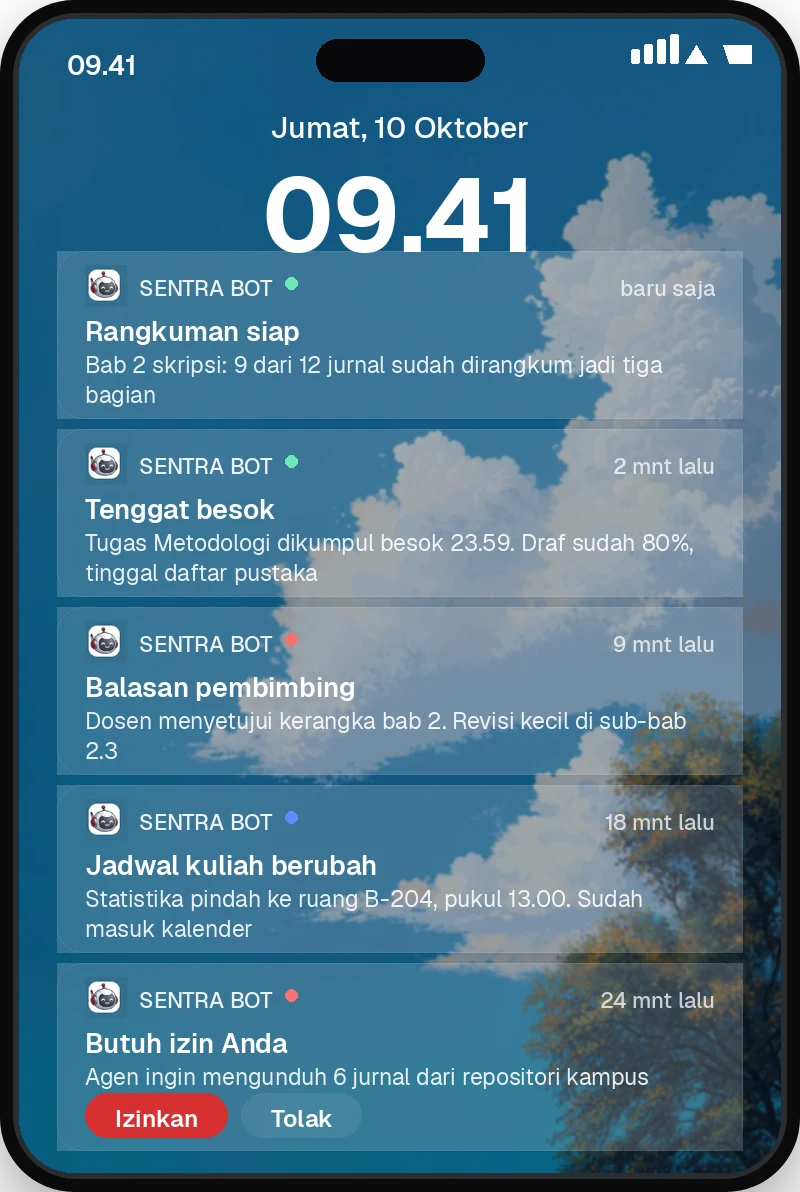
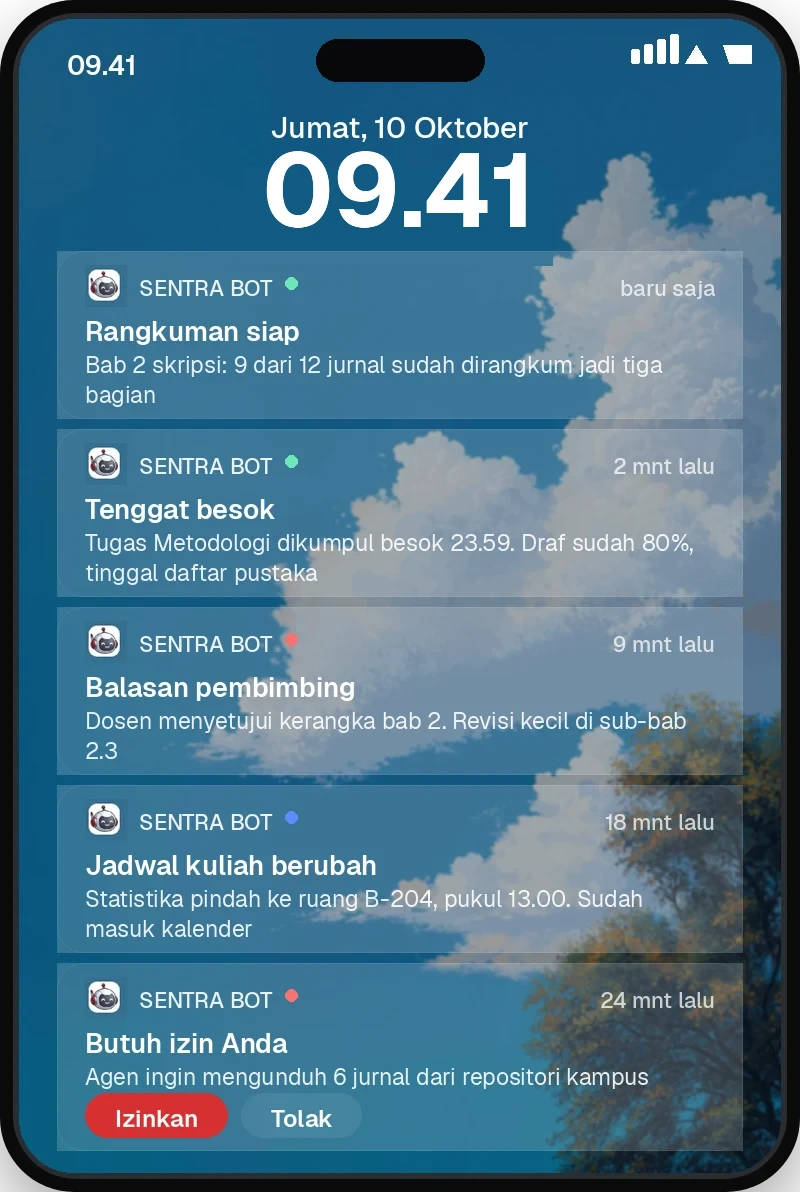
fix(sentrabot-site): unclip the lock-screen clock, rewrite the FAQ
- The lock-screen art had its 09.41 sliced by the first notification card.
  The wallpaper behind it is flat, so the glyphs were keyed out per row,
  the old position repainted with each row's own background, and the clock
  recomposited centred in the gap above the card.
- FAQ replaced with the questions Indonesian visitors actually ask (vs
  ChatGPT, not tech-savvy, everyday Indonesian, WhatsApp, permission,
  data safety, warung use, price and free plan, quota top-up, BYOK,
  cancelling) in a warmer voice; answers stay inside existing claims.
- Accordion buttons now carry aria-expanded.

Changed region(s): [[0.3125, 0.1242, 0.6875, 0.2173]]

diff --git a/projects/product/sentrabot/apps/site/src/html/Faq.html b/projects/product/sentrabot/apps/site/src/html/Faq.html
@@ -1,1 +1,1 @@
-<section class="relative dr-w-357 dt:dr-w-792 dr-mt-108 dr-mb-44 dt:dr-mb-108 mx-auto"><h3 class="h5 dr-mb-15 dt:dr-mb-35 text-center">Pertanyaan yang sering diajukan</h3><div class="accordion-module__tWMLDa__accordion"><div class="faq-module__O8tnPq__faq__item relative dr-mt-10 dr-rounded-10 dt:dr-rounded-8 overflow-hidden"><button class="dr-py-14 dr-px-16 relative flex items-center justify-between w-full"><h4 class="dr-w-271 dt:w-full h6">Sebentar, apakah agen benar-benar menjalankan perintah tanpa saya?</h4><svg viewBox="0 0 10 6" fill="none" xmlns="http://www.w3.org/2000/svg" class="dr-w-10 transition-transform duration-300"><path d="m1 .5.6.2 3.6 3.6L8.9.6c.8-.4 1.4.5.8 1.1-1.4 1.2-2.6 2.9-4 4Q5.3 6 5 6L.6 1.6C.3 1.3.4.6.9.6" fill="white"></path></svg></button><div class="accordion-module__tWMLDa__body" aria-hidden="true" style="height: 0px;"><div><div class="relative"><p class="dr-px-16 dr-pb-14 p-s dr-pt-0 opacity-[0.56]">Tidak. Agen tidak pernah menjalankan tindakan destruktif atau eksternal tanpa Anda. Mereka menyiapkan langkah berikutnya dan menunggu kartu izin Izinkan / Tolak. Anda meninjau, mengedit jika perlu, lalu memutuskan. Anggap saja rekan yang menyusun opsi—bukan yang bertindak tanpa kontrol.</p></div></div></div></div></div><div class="accordion-module__tWMLDa__accordion"><div class="faq-module__O8tnPq__faq__item relative dr-mt-10 dr-rounded-10 dt:dr-rounded-8 overflow-hidden"><button class="dr-py-14 dr-px-16 relative flex items-center justify-between w-full"><h4 class="dr-w-271 dt:w-full h6">Untuk mahasiswa, agen bisa bantu apa saja?</h4><svg viewBox="0 0 10 6" fill="none" xmlns="http://www.w3.org/2000/svg" class="dr-w-10 transition-transform duration-300"><path d="m1 .5.6.2 3.6 3.6L8.9.6c.8-.4 1.4.5.8 1.1-1.4 1.2-2.6 2.9-4 4Q5.3 6 5 6L.6 1.6C.3 1.3.4.6.9.6" fill="white"></path></svg></button><div class="accordion-module__tWMLDa__body" aria-hidden="true" style="height: 0px;"><div><div class="relative"><p class="dr-px-16 dr-pb-14 p-s dr-pt-0 opacity-[0.56]">Agen dapat membantu menyiapkan rangkuman materi, rencana belajar menjelang ujian, daftar tugas berdasarkan tenggat, draf presentasi, hingga persiapan magang dan wawancara.</p></div></div></div></div></div><div class="accordion-module__tWMLDa__accordion"><div class="faq-module__O8tnPq__faq__item relative dr-mt-10 dr-rounded-10 dt:dr-rounded-8 overflow-hidden"><button class="dr-py-14 dr-px-16 relative flex items-center justify-between w-full"><h4 class="dr-w-271 dt:w-full h6">Untuk profesional yang bekerja, agen bisa bantu apa saja?</h4><svg viewBox="0 0 10 6" fill="none" xmlns="http://www.w3.org/2000/svg" class="dr-w-10 transition-transform duration-300"><path d="m1 .5.6.2 3.6 3.6L8.9.6c.8-.4 1.4.5.8 1.1-1.4 1.2-2.6 2.9-4 4Q5.3 6 5 6L.6 1.6C.3 1.3.4.6.9.6" fill="white"></path></svg></button><div class="accordion-module__tWMLDa__body" aria-hidden="true" style="height: 0px;"><div><div class="relative"><p class="dr-px-16 dr-pb-14 p-s dr-pt-0 opacity-[0.56]">Agen dapat menyiapkan agenda rapat, merangkum dokumen, menyusun email tindak lanjut, membuat laporan, mempersiapkan presentasi, serta membantu menentukan prioritas pekerjaan berikutnya.</p></div></div></div></div></div><div class="accordion-module__tWMLDa__accordion"><div class="faq-module__O8tnPq__faq__item relative dr-mt-10 dr-rounded-10 dt:dr-rounded-8 overflow-hidden"><button class="dr-py-14 dr-px-16 relative flex items-center justify-between w-full"><h4 class="dr-w-271 dt:w-full h6">Untuk ibu rumah tangga, agen bisa bantu apa saja?</h4><svg viewBox="0 0 10 6" fill="none" xmlns="http://www.w3.org/2000/svg" class="dr-w-10 transition-transform duration-300"><path d="m1 .5.6.2 3.6 3.6L8.9.6c.8-.4 1.4.5.8 1.1-1.4 1.2-2.6 2.9-4 4Q5.3 6 5 6L.6 1.6C.3 1.3.4.6.9.6" fill="white"></path></svg></button><div class="accordion-module__tWMLDa__body" aria-hidden="true" style="height: 0px;"><div><div class="relative"><p class="dr-px-16 dr-pb-14 p-s dr-pt-0 opacity-[0.56]">Agen dapat membantu menyusun menu dan daftar belanja, merencanakan kebutuhan rumah, mengatur jadwal keluarga, mengingatkan keperluan sekolah anak, hingga membantu merencanakan pengeluaran bulanan.</p></div></div></div></div></div><div class="accordion-module__tWMLDa__accordion"><div class="faq-module__O8tnPq__faq__item relative dr-mt-10 dr-rounded-10 dt:dr-rounded-8 overflow-hidden"><button class="dr-py-14 dr-px-16 relative flex items-center justify-between w-full"><h4 class="dr-w-271 dt:w-full h6">Bot apa saja yang tersedia di Sentra Bot?</h4><svg viewBox="0 0 10 6" fill="none" xmlns="http://www.w3.org/2000/svg" class="dr-w-10 transition-transform duration-300"><path d="m1 .5.6.2 3.6 3.6L8.9.6c.8-.4 1.4.5.8 1.1-1.4 1.2-2.6 2.9-4 4Q5.3 6 5 6L.6 1.6C.3 1.3.4.6.9.6" fill="white"></path></svg></button><div class="accordion-module__tWMLDa__body" aria-hidden="true" style="height: 0px;"><div><div class="relative"><p class="dr-px-16 dr-pb-14 p-s dr-pt-0 opacity-[0.56]">Sentra Bot mencakup 9 bot production-ready yang dirancang khusus untuk kebutuhan dan budaya orang Indonesia: Sentra Study (kuliah & belajar), Sentra Work (kerja & karier), Sentra Rumah (rumah & keluarga), Sentra Uang (uang & belanja), Sentra UMKM (UMKM & freelance), Sentra Warga (administrasi Indonesia), Sentra Aman (keamanan digital), Sentra Creator (kreator & sosial), dan Sentra Care (kesehatan & care)—total 37 file lintas kesembilan bot. Setiap bot punya SYSTEM_PROMPT.md dan manifest.json sendiri, contoh tugas nyata, alur first-run yang diawasi, aturan memori, batas cakupan, gerbang verifikasi, rekomendasi integrasi, kandidat rutinitas, dan profil izin sendiri—bukan prompt generik yang ditempel ulang.</p></div></div></div></div></div><div class="accordion-module__tWMLDa__accordion"><div class="faq-module__O8tnPq__faq__item relative dr-mt-10 dr-rounded-10 dt:dr-rounded-8 overflow-hidden"><button class="dr-py-14 dr-px-16 relative flex items-center justify-between w-full"><h4 class="dr-w-271 dt:w-full h6">Bagaimana Sentra Bot tahu apa yang 'penting' bagi saya?</h4><svg viewBox="0 0 10 6" fill="none" xmlns="http://www.w3.org/2000/svg" class="dr-w-10 transition-transform duration-300"><path d="m1 .5.6.2 3.6 3.6L8.9.6c.8-.4 1.4.5.8 1.1-1.4 1.2-2.6 2.9-4 4Q5.3 6 5 6L.6 1.6C.3 1.3.4.6.9.6" fill="white"></path></svg></button><div class="accordion-module__tWMLDa__body" aria-hidden="true" style="height: 0px;"><div><div class="relative"><p class="dr-px-16 dr-pb-14 p-s dr-pt-0 opacity-[0.56]">Di awal, agen belajar dari kebiasaan Anda—mana yang selalu Anda dahulukan, mana yang biasa ditunda, dan bagaimana Anda memutuskan. Yang kemungkinan butuh Anda ditaruh paling depan. Kalau menurut Anda salah, bilang saja, dan ia mengingatnya.</p></div></div></div></div></div><div class="accordion-module__tWMLDa__accordion"><div class="faq-module__O8tnPq__faq__item relative dr-mt-10 dr-rounded-10 dt:dr-rounded-8 overflow-hidden"><button class="dr-py-14 dr-px-16 relative flex items-center justify-between w-full"><h4 class="dr-w-271 dt:w-full h6">Bagaimana jika Brief melewatkan sesuatu yang penting?</h4><svg viewBox="0 0 10 6" fill="none" xmlns="http://www.w3.org/2000/svg" class="dr-w-10 transition-transform duration-300"><path d="m1 .5.6.2 3.6 3.6L8.9.6c.8-.4 1.4.5.8 1.1-1.4 1.2-2.6 2.9-4 4Q5.3 6 5 6L.6 1.6C.3 1.3.4.6.9.6" fill="white"></path></svg></button><div class="accordion-module__tWMLDa__body" aria-hidden="true" style="height: 0px;"><div><div class="relative"><p class="dr-px-16 dr-pb-14 p-s dr-pt-0 opacity-[0.56]">Riwayat lengkapnya selalu bisa Anda buka, jadi tidak ada yang hilang. Kalau Brief kurang pas atau salah mendahulukan, bilang saja ke agennya—koreksi itu diingat.</p></div></div></div></div></div><div class="accordion-module__tWMLDa__accordion"><div class="faq-module__O8tnPq__faq__item relative dr-mt-10 dr-rounded-10 dt:dr-rounded-8 overflow-hidden"><button class="dr-py-14 dr-px-16 relative flex items-center justify-between w-full"><h4 class="dr-w-271 dt:w-full h6">Apakah ini hanya cloud?</h4><svg viewBox="0 0 10 6" fill="none" xmlns="http://www.w3.org/2000/svg" class="dr-w-10 transition-transform duration-300"><path d="m1 .5.6.2 3.6 3.6L8.9.6c.8-.4 1.4.5.8 1.1-1.4 1.2-2.6 2.9-4 4Q5.3 6 5 6L.6 1.6C.3 1.3.4.6.9.6" fill="white"></path></svg></button><div class="accordion-module__tWMLDa__body" aria-hidden="true" style="height: 0px;"><div><div class="relative"><p class="dr-px-16 dr-pb-14 p-s dr-pt-0 opacity-[0.56]">Sentra Bot berjalan di komputer atau server Anda sendiri, dan berkas serta riwayat percakapan tersimpan di sana. Yang dikirim keluar hanya potongan yang perlu dibaca model AI. Paket berbayar sudah menyertakan kuota AI dari kami; kalau Anda punya kunci sendiri, pasang BYOK dan panggilan model tidak lewat kami sama sekali.</p></div></div></div></div></div><div class="accordion-module__tWMLDa__accordion"><div class="faq-module__O8tnPq__faq__item relative dr-mt-10 dr-rounded-10 dt:dr-rounded-8 overflow-hidden"><button class="dr-py-14 dr-px-16 relative flex items-center justify-between w-full"><h4 class="dr-w-271 dt:w-full h6">Apa sebenarnya 'Brief' itu?</h4><svg viewBox="0 0 10 6" fill="none" xmlns="http://www.w3.org/2000/svg" class="dr-w-10 transition-transform duration-300"><path d="m1 .5.6.2 3.6 3.6L8.9.6c.8-.4 1.4.5.8 1.1-1.4 1.2-2.6 2.9-4 4Q5.3 6 5 6L.6 1.6C.3 1.3.4.6.9.6" fill="white"></path></svg></button><div class="accordion-module__tWMLDa__body" aria-hidden="true" style="height: 0px;"><div><div class="relative"><p class="dr-px-16 dr-pb-14 p-s dr-pt-0 opacity-[0.56]">Ringkasan dua kali sehari: apa yang sudah dikerjakan agen, dan apa yang masih menunggu keputusan Anda—draf yang sudah jadi serta permintaan izin yang belum dijawab. Dibuat untuk dibaca 30 detik, bukan untuk ditelusuri satu per satu.</p></div></div></div></div></div><div class="accordion-module__tWMLDa__accordion"><div class="faq-module__O8tnPq__faq__item relative dr-mt-10 dr-rounded-10 dt:dr-rounded-8 overflow-hidden"><button class="dr-py-14 dr-px-16 relative flex items-center justify-between w-full"><h4 class="dr-w-271 dt:w-full h6">Berapa lama uji coba gratisnya?</h4><svg viewBox="0 0 10 6" fill="none" xmlns="http://www.w3.org/2000/svg" class="dr-w-10 transition-transform duration-300"><path d="m1 .5.6.2 3.6 3.6L8.9.6c.8-.4 1.4.5.8 1.1-1.4 1.2-2.6 2.9-4 4Q5.3 6 5 6L.6 1.6C.3 1.3.4.6.9.6" fill="white"></path></svg></button><div class="accordion-module__tWMLDa__body" aria-hidden="true" style="height: 0px;"><div><div class="relative"><p class="dr-px-16 dr-pb-14 p-s dr-pt-0 opacity-[0.56]">Anda dapat mengajukan akses beta dan mencoba Sentra Bot gratis selama jendela evaluasi.</p></div></div></div></div></div><div class="accordion-module__tWMLDa__accordion"><div class="faq-module__O8tnPq__faq__item relative dr-mt-10 dr-rounded-10 dt:dr-rounded-8 overflow-hidden"><button class="dr-py-14 dr-px-16 relative flex items-center justify-between w-full"><h4 class="dr-w-271 dt:w-full h6">Agen membaca berkas saya untuk belajar. Apakah itu aman?</h4><svg viewBox="0 0 10 6" fill="none" xmlns="http://www.w3.org/2000/svg" class="dr-w-10 transition-transform duration-300"><path d="m1 .5.6.2 3.6 3.6L8.9.6c.8-.4 1.4.5.8 1.1-1.4 1.2-2.6 2.9-4 4Q5.3 6 5 6L.6 1.6C.3 1.3.4.6.9.6" fill="white"></path></svg></button><div class="accordion-module__tWMLDa__body" aria-hidden="true" style="height: 0px;"><div><div class="relative"><p class="dr-px-16 dr-pb-14 p-s dr-pt-0 opacity-[0.56]">Berkas dan riwayat percakapan tetap di komputer atau server Anda—kami tidak punya pintu belakang ke sana. Untuk berpikir, agen mengirim potongan yang relevan ke model AI: memakai kuota dari kami, atau kunci Anda sendiri lewat BYOK kalau Anda ingin itu pun tidak lewat kami.</p></div></div></div></div></div><div class="accordion-module__tWMLDa__accordion"><div class="faq-module__O8tnPq__faq__item relative dr-mt-10 dr-rounded-10 dt:dr-rounded-8 overflow-hidden"><button class="dr-py-14 dr-px-16 relative flex items-center justify-between w-full"><h4 class="dr-w-271 dt:w-full h6">Bagaimana dengan tumpukan yang sudah menunggu sebelum saya pakai?</h4><svg viewBox="0 0 10 6" fill="none" xmlns="http://www.w3.org/2000/svg" class="dr-w-10 transition-transform duration-300"><path d="m1 .5.6.2 3.6 3.6L8.9.6c.8-.4 1.4.5.8 1.1-1.4 1.2-2.6 2.9-4 4Q5.3 6 5 6L.6 1.6C.3 1.3.4.6.9.6" fill="white"></path></svg></button><div class="accordion-module__tWMLDa__body" aria-hidden="true" style="height: 0px;"><div><div class="relative"><p class="dr-px-16 dr-pb-14 p-s dr-pt-0 opacity-[0.56]">Agen mulai dari pekerjaan sejak Anda menyalakannya. Fitur untuk menarik dan membereskan tumpukan lama masih dalam rencana pengembangan.</p></div></div></div></div></div><div class="accordion-module__tWMLDa__accordion"><div class="faq-module__O8tnPq__faq__item relative dr-mt-10 dr-rounded-10 dt:dr-rounded-8 overflow-hidden"><button class="dr-py-14 dr-px-16 relative flex items-center justify-between w-full"><h4 class="dr-w-271 dt:w-full h6">Bisakah saya mematikannya jika tidak suka?</h4><svg viewBox="0 0 10 6" fill="none" xmlns="http://www.w3.org/2000/svg" class="dr-w-10 transition-transform duration-300"><path d="m1 .5.6.2 3.6 3.6L8.9.6c.8-.4 1.4.5.8 1.1-1.4 1.2-2.6 2.9-4 4Q5.3 6 5 6L.6 1.6C.3 1.3.4.6.9.6" fill="white"></path></svg></button><div class="accordion-module__tWMLDa__body" aria-hidden="true" style="height: 0px;"><div><div class="relative"><p class="dr-px-16 dr-pb-14 p-s dr-pt-0 opacity-[0.56]">Bisa, tentu saja. Anda selalu bisa menghentikan agen kapan saja. Anda juga bisa menonaktifkan kemampuan tertentu—seperti draf atau rutinitas terjadwal—di pengaturan.</p></div></div></div></div></div><div class="accordion-module__tWMLDa__accordion"><div class="faq-module__O8tnPq__faq__item relative dr-mt-10 dr-rounded-10 dt:dr-rounded-8 overflow-hidden"><button class="dr-py-14 dr-px-16 relative flex items-center justify-between w-full"><h4 class="dr-w-271 dt:w-full h6">Apakah saya harus berhenti pakai aplikasi yang sekarang?</h4><svg viewBox="0 0 10 6" fill="none" xmlns="http://www.w3.org/2000/svg" class="dr-w-10 transition-transform duration-300"><path d="m1 .5.6.2 3.6 3.6L8.9.6c.8-.4 1.4.5.8 1.1-1.4 1.2-2.6 2.9-4 4Q5.3 6 5 6L.6 1.6C.3 1.3.4.6.9.6" fill="white"></path></svg></button><div class="accordion-module__tWMLDa__body" aria-hidden="true" style="height: 0px;"><div><div class="relative"><p class="dr-px-16 dr-pb-14 p-s dr-pt-0 opacity-[0.56]">Tidak. Sentra Bot berjalan berdampingan dengan aplikasi yang sudah Anda pakai. Agen menyambung lewat integrasi, jadi yang berkurang hanya kerja manualnya.</p></div></div></div></div></div><div class="accordion-module__tWMLDa__accordion"><div class="faq-module__O8tnPq__faq__item relative dr-mt-10 dr-rounded-10 dt:dr-rounded-8 overflow-hidden"><button class="dr-py-14 dr-px-16 relative flex items-center justify-between w-full"><h4 class="dr-w-271 dt:w-full h6">Berapa bot yang bisa aktif sekaligus?</h4><svg viewBox="0 0 10 6" fill="none" xmlns="http://www.w3.org/2000/svg" class="dr-w-10 transition-transform duration-300"><path d="m1 .5.6.2 3.6 3.6L8.9.6c.8-.4 1.4.5.8 1.1-1.4 1.2-2.6 2.9-4 4Q5.3 6 5 6L.6 1.6C.3 1.3.4.6.9.6" fill="white"></path></svg></button><div class="accordion-module__tWMLDa__body" aria-hidden="true" style="height: 0px;"><div><div class="relative"><p class="dr-px-16 dr-pb-14 p-s dr-pt-0 opacity-[0.56]">Tiga bot aktif di paket Free, 10 di Plus, 30 di Pro, dan 100 di Business — dihitung per workspace. Bot di atas batas tidak dihapus, hanya dijeda sampai Anda menaikkan paket.</p></div></div></div></div></div><div class="accordion-module__tWMLDa__accordion"><div class="faq-module__O8tnPq__faq__item relative dr-mt-10 dr-rounded-10 dt:dr-rounded-8 overflow-hidden"><button class="dr-py-14 dr-px-16 relative flex items-center justify-between w-full"><h4 class="dr-w-271 dt:w-full h6">Apa itu Sentra?</h4><svg viewBox="0 0 10 6" fill="none" xmlns="http://www.w3.org/2000/svg" class="dr-w-10 transition-transform duration-300"><path d="m1 .5.6.2 3.6 3.6L8.9.6c.8-.4 1.4.5.8 1.1-1.4 1.2-2.6 2.9-4 4Q5.3 6 5 6L.6 1.6C.3 1.3.4.6.9.6" fill="white"></path></svg></button><div class="accordion-module__tWMLDa__body" aria-hidden="true" style="height: 0px;"><div><div class="relative"><p class="dr-px-16 dr-pb-14 p-s dr-pt-0 opacity-[0.56]">Sentra Artificial Intelligence membangun Sentra Bot—platform multi-agen local-first dan self-hosted, dirancang khusus untuk budaya dan kebutuhan orang Indonesia, dengan eksekusi berpagar manusia, bukan kotak chat yang terkunci vendor. Pelajari lebih lanjut di <a href="https://sentrahai.com" class="underline">sentrahai.com</a>.</p></div></div></div></div></div></section>
+<section class="relative dr-w-357 dt:dr-w-792 dr-mt-108 dr-mb-44 dt:dr-mb-108 mx-auto"><h3 class="h5 dr-mb-15 dt:dr-mb-35 text-center">Pertanyaan yang sering diajukan</h3><div class="accordion-module__tWMLDa__accordion"><div class="faq-module__O8tnPq__faq__item relative dr-mt-10 dr-rounded-10 dt:dr-rounded-8 overflow-hidden"><button type="button" aria-expanded="false" class="dr-py-14 dr-px-16 relative flex items-center justify-between w-full"><h4 class="dr-w-271 dt:w-full h6">Bedanya apa dengan ChatGPT atau AI chat lainnya?</h4><svg viewBox="0 0 10 6" fill="none" xmlns="http://www.w3.org/2000/svg" class="dr-w-10 transition-transform duration-300"><path d="m1 .5.6.2 3.6 3.6L8.9.6c.8-.4 1.4.5.8 1.1-1.4 1.2-2.6 2.9-4 4Q5.3 6 5 6L.6 1.6C.3 1.3.4.6.9.6" fill="white"></path></svg></button><div class="accordion-module__tWMLDa__body" aria-hidden="true" style="height: 0px;"><div><div class="relative"><p class="dr-px-16 dr-pb-14 p-s dr-pt-0 opacity-[0.56]">Ini pertanyaan yang paling sering masuk. Singkatnya: AI chat berhenti setelah menjawab, Sentra Bot lanjut mengerjakan. Ia merapikan berkas, menyiapkan draf, dan mengingatkan tenggat, lalu menyerahkan hasil yang tinggal Anda periksa. Bukan &ldquo;begini caranya&rdquo;, tapi &ldquo;ini sudah saya siapkan, tolong dicek&rdquo;.</p></div></div></div></div></div><div class="accordion-module__tWMLDa__accordion"><div class="faq-module__O8tnPq__faq__item relative dr-mt-10 dr-rounded-10 dt:dr-rounded-8 overflow-hidden"><button type="button" aria-expanded="false" class="dr-py-14 dr-px-16 relative flex items-center justify-between w-full"><h4 class="dr-w-271 dt:w-full h6">Saya tidak terlalu paham teknologi. Susah dipakai tidak?</h4><svg viewBox="0 0 10 6" fill="none" xmlns="http://www.w3.org/2000/svg" class="dr-w-10 transition-transform duration-300"><path d="m1 .5.6.2 3.6 3.6L8.9.6c.8-.4 1.4.5.8 1.1-1.4 1.2-2.6 2.9-4 4Q5.3 6 5 6L.6 1.6C.3 1.3.4.6.9.6" fill="white"></path></svg></button><div class="accordion-module__tWMLDa__body" aria-hidden="true" style="height: 0px;"><div><div class="relative"><p class="dr-px-16 dr-pb-14 p-s dr-pt-0 opacity-[0.56]">Tenang, tidak perlu jago komputer. Pilih bot yang paling dekat dengan keseharian Anda, sambungkan yang mau dipakai, lalu jalan. Kalau Anda terbiasa mengirim pesan di HP, itu sudah lebih dari cukup.</p></div></div></div></div></div><div class="accordion-module__tWMLDa__accordion"><div class="faq-module__O8tnPq__faq__item relative dr-mt-10 dr-rounded-10 dt:dr-rounded-8 overflow-hidden"><button type="button" aria-expanded="false" class="dr-py-14 dr-px-16 relative flex items-center justify-between w-full"><h4 class="dr-w-271 dt:w-full h6">Bisa pakai bahasa Indonesia sehari-hari?</h4><svg viewBox="0 0 10 6" fill="none" xmlns="http://www.w3.org/2000/svg" class="dr-w-10 transition-transform duration-300"><path d="m1 .5.6.2 3.6 3.6L8.9.6c.8-.4 1.4.5.8 1.1-1.4 1.2-2.6 2.9-4 4Q5.3 6 5 6L.6 1.6C.3 1.3.4.6.9.6" fill="white"></path></svg></button><div class="accordion-module__tWMLDa__body" aria-hidden="true" style="height: 0px;"><div><div class="relative"><p class="dr-px-16 dr-pb-14 p-s dr-pt-0 opacity-[0.56]">Bisa, dan memang dibuat untuk itu. Tulis apa adanya, termasuk singkatan dan campuran bahasa yang biasa Anda pakai. Tidak perlu menyusun perintah rapi seperti rumus.</p></div></div></div></div></div><div class="accordion-module__tWMLDa__accordion"><div class="faq-module__O8tnPq__faq__item relative dr-mt-10 dr-rounded-10 dt:dr-rounded-8 overflow-hidden"><button type="button" aria-expanded="false" class="dr-py-14 dr-px-16 relative flex items-center justify-between w-full"><h4 class="dr-w-271 dt:w-full h6">Bisa dipakai lewat WhatsApp?</h4><svg viewBox="0 0 10 6" fill="none" xmlns="http://www.w3.org/2000/svg" class="dr-w-10 transition-transform duration-300"><path d="m1 .5.6.2 3.6 3.6L8.9.6c.8-.4 1.4.5.8 1.1-1.4 1.2-2.6 2.9-4 4Q5.3 6 5 6L.6 1.6C.3 1.3.4.6.9.6" fill="white"></path></svg></button><div class="accordion-module__tWMLDa__body" aria-hidden="true" style="height: 0px;"><div><div class="relative"><p class="dr-px-16 dr-pb-14 p-s dr-pt-0 opacity-[0.56]">Bisa. Sentra Bot dapat disambungkan ke WhatsApp Business, jadi Anda tetap bekerja di aplikasi yang memang sudah dibuka setiap hari.</p></div></div></div></div></div><div class="accordion-module__tWMLDa__accordion"><div class="faq-module__O8tnPq__faq__item relative dr-mt-10 dr-rounded-10 dt:dr-rounded-8 overflow-hidden"><button type="button" aria-expanded="false" class="dr-py-14 dr-px-16 relative flex items-center justify-between w-full"><h4 class="dr-w-271 dt:w-full h6">Botnya bisa bertindak sendiri tanpa izin saya?</h4><svg viewBox="0 0 10 6" fill="none" xmlns="http://www.w3.org/2000/svg" class="dr-w-10 transition-transform duration-300"><path d="m1 .5.6.2 3.6 3.6L8.9.6c.8-.4 1.4.5.8 1.1-1.4 1.2-2.6 2.9-4 4Q5.3 6 5 6L.6 1.6C.3 1.3.4.6.9.6" fill="white"></path></svg></button><div class="accordion-module__tWMLDa__body" aria-hidden="true" style="height: 0px;"><div><div class="relative"><p class="dr-px-16 dr-pb-14 p-s dr-pt-0 opacity-[0.56]">Tidak. Untuk tindakan yang penting atau yang keluar dari perangkat Anda, bot berhenti dan menunggu kartu Izinkan / Tolak. Anda meninjau, boleh mengubah dulu, baru memutuskan. Anggap saja rekan kerja yang menyiapkan pilihan, bukan yang jalan sendiri.</p></div></div></div></div></div><div class="accordion-module__tWMLDa__accordion"><div class="faq-module__O8tnPq__faq__item relative dr-mt-10 dr-rounded-10 dt:dr-rounded-8 overflow-hidden"><button type="button" aria-expanded="false" class="dr-py-14 dr-px-16 relative flex items-center justify-between w-full"><h4 class="dr-w-271 dt:w-full h6">Data dan berkas saya aman?</h4><svg viewBox="0 0 10 6" fill="none" xmlns="http://www.w3.org/2000/svg" class="dr-w-10 transition-transform duration-300"><path d="m1 .5.6.2 3.6 3.6L8.9.6c.8-.4 1.4.5.8 1.1-1.4 1.2-2.6 2.9-4 4Q5.3 6 5 6L.6 1.6C.3 1.3.4.6.9.6" fill="white"></path></svg></button><div class="accordion-module__tWMLDa__body" aria-hidden="true" style="height: 0px;"><div><div class="relative"><p class="dr-px-16 dr-pb-14 p-s dr-pt-0 opacity-[0.56]">Berkas dan riwayat percakapan tetap tersimpan di komputer atau server Anda sendiri, dan kami tidak punya pintu belakang ke sana. Untuk berpikir, agen hanya mengirim potongan yang relevan ke model AI. Data Anda tidak pernah dipakai untuk melatih model.</p></div></div></div></div></div><div class="accordion-module__tWMLDa__accordion"><div class="faq-module__O8tnPq__faq__item relative dr-mt-10 dr-rounded-10 dt:dr-rounded-8 overflow-hidden"><button type="button" aria-expanded="false" class="dr-py-14 dr-px-16 relative flex items-center justify-between w-full"><h4 class="dr-w-271 dt:w-full h6">Bot apa saja yang tersedia?</h4><svg viewBox="0 0 10 6" fill="none" xmlns="http://www.w3.org/2000/svg" class="dr-w-10 transition-transform duration-300"><path d="m1 .5.6.2 3.6 3.6L8.9.6c.8-.4 1.4.5.8 1.1-1.4 1.2-2.6 2.9-4 4Q5.3 6 5 6L.6 1.6C.3 1.3.4.6.9.6" fill="white"></path></svg></button><div class="accordion-module__tWMLDa__body" aria-hidden="true" style="height: 0px;"><div><div class="relative"><p class="dr-px-16 dr-pb-14 p-s dr-pt-0 opacity-[0.56]">Ada sembilan, masing-masing dibuat untuk satu bidang: Study untuk kuliah dan belajar, Work untuk kerja dan karier, Rumah untuk rumah dan keluarga, Uang untuk uang dan belanja, UMKM untuk usaha dan freelance, Warga untuk urusan administrasi, Aman untuk keamanan digital, Creator untuk konten dan sosial, serta Care untuk kesehatan. Mulai dari satu yang paling dekat dengan keseharian Anda, sisanya bisa menyusul.</p></div></div></div></div></div><div class="accordion-module__tWMLDa__accordion"><div class="faq-module__O8tnPq__faq__item relative dr-mt-10 dr-rounded-10 dt:dr-rounded-8 overflow-hidden"><button type="button" aria-expanded="false" class="dr-py-14 dr-px-16 relative flex items-center justify-between w-full"><h4 class="dr-w-271 dt:w-full h6">Apa itu &ldquo;Brief&rdquo; yang sering disebut?</h4><svg viewBox="0 0 10 6" fill="none" xmlns="http://www.w3.org/2000/svg" class="dr-w-10 transition-transform duration-300"><path d="m1 .5.6.2 3.6 3.6L8.9.6c.8-.4 1.4.5.8 1.1-1.4 1.2-2.6 2.9-4 4Q5.3 6 5 6L.6 1.6C.3 1.3.4.6.9.6" fill="white"></path></svg></button><div class="accordion-module__tWMLDa__body" aria-hidden="true" style="height: 0px;"><div><div class="relative"><p class="dr-px-16 dr-pb-14 p-s dr-pt-0 opacity-[0.56]">Ringkasan singkat dua kali sehari, pagi dan sore. Isinya apa yang sudah beres, apa yang jatuh tempo, dan apa yang masih menunggu keputusan Anda. Dibuat untuk dibaca 30 detik sambil ngopi, bukan untuk ditelusuri satu per satu.</p></div></div></div></div></div><div class="accordion-module__tWMLDa__accordion"><div class="faq-module__O8tnPq__faq__item relative dr-mt-10 dr-rounded-10 dt:dr-rounded-8 overflow-hidden"><button type="button" aria-expanded="false" class="dr-py-14 dr-px-16 relative flex items-center justify-between w-full"><h4 class="dr-w-271 dt:w-full h6">Cocok tidak untuk warung atau usaha online kecil?</h4><svg viewBox="0 0 10 6" fill="none" xmlns="http://www.w3.org/2000/svg" class="dr-w-10 transition-transform duration-300"><path d="m1 .5.6.2 3.6 3.6L8.9.6c.8-.4 1.4.5.8 1.1-1.4 1.2-2.6 2.9-4 4Q5.3 6 5 6L.6 1.6C.3 1.3.4.6.9.6" fill="white"></path></svg></button><div class="accordion-module__tWMLDa__body" aria-hidden="true" style="height: 0px;"><div><div class="relative"><p class="dr-px-16 dr-pb-14 p-s dr-pt-0 opacity-[0.56]">Cocok, itu memang tugas Sentra UMKM. Ia bisa merapikan catatan penjualan tiap malam, membantu menyiapkan balasan untuk calon pembeli, dan menyusun rekap sederhana supaya untung ruginya kelihatan.</p></div></div></div></div></div><div class="accordion-module__tWMLDa__accordion"><div class="faq-module__O8tnPq__faq__item relative dr-mt-10 dr-rounded-10 dt:dr-rounded-8 overflow-hidden"><button type="button" aria-expanded="false" class="dr-py-14 dr-px-16 relative flex items-center justify-between w-full"><h4 class="dr-w-271 dt:w-full h6">Ada paket gratisnya? Bayarnya berapa?</h4><svg viewBox="0 0 10 6" fill="none" xmlns="http://www.w3.org/2000/svg" class="dr-w-10 transition-transform duration-300"><path d="m1 .5.6.2 3.6 3.6L8.9.6c.8-.4 1.4.5.8 1.1-1.4 1.2-2.6 2.9-4 4Q5.3 6 5 6L.6 1.6C.3 1.3.4.6.9.6" fill="white"></path></svg></button><div class="accordion-module__tWMLDa__body" aria-hidden="true" style="height: 0px;"><div><div class="relative"><p class="dr-px-16 dr-pb-14 p-s dr-pt-0 opacity-[0.56]">Ada. Paket Free memberi 3 bot aktif dengan kuota AI terbatas setiap bulan, tanpa bayar. Kalau butuh lebih: Plus Rp79 ribu, Pro Rp199 ribu, dan Business Rp499 ribu per bulan, dan lebih hemat kalau diambil tahunan. Sekarang masih tahap beta, jadi akses dibuka bertahap lewat tombol Ajukan akses beta.</p></div></div></div></div></div><div class="accordion-module__tWMLDa__accordion"><div class="faq-module__O8tnPq__faq__item relative dr-mt-10 dr-rounded-10 dt:dr-rounded-8 overflow-hidden"><button type="button" aria-expanded="false" class="dr-py-14 dr-px-16 relative flex items-center justify-between w-full"><h4 class="dr-w-271 dt:w-full h6">Kalau kuota AI habis sebelum akhir bulan?</h4><svg viewBox="0 0 10 6" fill="none" xmlns="http://www.w3.org/2000/svg" class="dr-w-10 transition-transform duration-300"><path d="m1 .5.6.2 3.6 3.6L8.9.6c.8-.4 1.4.5.8 1.1-1.4 1.2-2.6 2.9-4 4Q5.3 6 5 6L.6 1.6C.3 1.3.4.6.9.6" fill="white"></path></svg></button><div class="accordion-module__tWMLDa__body" aria-hidden="true" style="height: 0px;"><div><div class="relative"><p class="dr-px-16 dr-pb-14 p-s dr-pt-0 opacity-[0.56]">Tidak perlu panik. Anda bisa top-up mulai Rp25 ribu sampai Rp250 ribu dan langsung aktif lagi. Kalau punya kunci AI sendiri, pasang BYOK dan pemakaian tidak lagi dihitung dari kuota kami.</p></div></div></div></div></div><div class="accordion-module__tWMLDa__accordion"><div class="faq-module__O8tnPq__faq__item relative dr-mt-10 dr-rounded-10 dt:dr-rounded-8 overflow-hidden"><button type="button" aria-expanded="false" class="dr-py-14 dr-px-16 relative flex items-center justify-between w-full"><h4 class="dr-w-271 dt:w-full h6">Apa itu BYOK?</h4><svg viewBox="0 0 10 6" fill="none" xmlns="http://www.w3.org/2000/svg" class="dr-w-10 transition-transform duration-300"><path d="m1 .5.6.2 3.6 3.6L8.9.6c.8-.4 1.4.5.8 1.1-1.4 1.2-2.6 2.9-4 4Q5.3 6 5 6L.6 1.6C.3 1.3.4.6.9.6" fill="white"></path></svg></button><div class="accordion-module__tWMLDa__body" aria-hidden="true" style="height: 0px;"><div><div class="relative"><p class="dr-px-16 dr-pb-14 p-s dr-pt-0 opacity-[0.56]">Kependekan dari Bring Your Own Key, artinya memakai kunci AI milik Anda sendiri. Dengan begitu panggilan ke model tidak lewat kami sama sekali dan biayanya Anda atur langsung. Kalau belum butuh, abaikan saja: paket berbayar sudah termasuk kuota dari kami.</p></div></div></div></div></div><div class="accordion-module__tWMLDa__accordion"><div class="faq-module__O8tnPq__faq__item relative dr-mt-10 dr-rounded-10 dt:dr-rounded-8 overflow-hidden"><button type="button" aria-expanded="false" class="dr-py-14 dr-px-16 relative flex items-center justify-between w-full"><h4 class="dr-w-271 dt:w-full h6">Berapa bot yang bisa aktif sekaligus?</h4><svg viewBox="0 0 10 6" fill="none" xmlns="http://www.w3.org/2000/svg" class="dr-w-10 transition-transform duration-300"><path d="m1 .5.6.2 3.6 3.6L8.9.6c.8-.4 1.4.5.8 1.1-1.4 1.2-2.6 2.9-4 4Q5.3 6 5 6L.6 1.6C.3 1.3.4.6.9.6" fill="white"></path></svg></button><div class="accordion-module__tWMLDa__body" aria-hidden="true" style="height: 0px;"><div><div class="relative"><p class="dr-px-16 dr-pb-14 p-s dr-pt-0 opacity-[0.56]">Tiga bot di paket Free, 10 di Plus, 30 di Pro, dan 100 di Business, dihitung per workspace. Bot yang melebihi batas tidak dihapus, hanya dijeda sampai Anda menaikkan paket.</p></div></div></div></div></div><div class="accordion-module__tWMLDa__accordion"><div class="faq-module__O8tnPq__faq__item relative dr-mt-10 dr-rounded-10 dt:dr-rounded-8 overflow-hidden"><button type="button" aria-expanded="false" class="dr-py-14 dr-px-16 relative flex items-center justify-between w-full"><h4 class="dr-w-271 dt:w-full h6">Kalau ternyata tidak cocok, bisa berhenti?</h4><svg viewBox="0 0 10 6" fill="none" xmlns="http://www.w3.org/2000/svg" class="dr-w-10 transition-transform duration-300"><path d="m1 .5.6.2 3.6 3.6L8.9.6c.8-.4 1.4.5.8 1.1-1.4 1.2-2.6 2.9-4 4Q5.3 6 5 6L.6 1.6C.3 1.3.4.6.9.6" fill="white"></path></svg></button><div class="accordion-module__tWMLDa__body" aria-hidden="true" style="height: 0px;"><div><div class="relative"><p class="dr-px-16 dr-pb-14 p-s dr-pt-0 opacity-[0.56]">Bisa kapan saja, tanpa drama dan tanpa penalti. Bot bisa dimatikan satu per satu atau semuanya sekaligus. Kemampuan tertentu seperti draf otomatis dan rutinitas terjadwal juga bisa dinonaktifkan sendiri di pengaturan.</p></div></div></div></div></div><div class="accordion-module__tWMLDa__accordion"><div class="faq-module__O8tnPq__faq__item relative dr-mt-10 dr-rounded-10 dt:dr-rounded-8 overflow-hidden"><button type="button" aria-expanded="false" class="dr-py-14 dr-px-16 relative flex items-center justify-between w-full"><h4 class="dr-w-271 dt:w-full h6">Saya harus berhenti pakai aplikasi yang sekarang?</h4><svg viewBox="0 0 10 6" fill="none" xmlns="http://www.w3.org/2000/svg" class="dr-w-10 transition-transform duration-300"><path d="m1 .5.6.2 3.6 3.6L8.9.6c.8-.4 1.4.5.8 1.1-1.4 1.2-2.6 2.9-4 4Q5.3 6 5 6L.6 1.6C.3 1.3.4.6.9.6" fill="white"></path></svg></button><div class="accordion-module__tWMLDa__body" aria-hidden="true" style="height: 0px;"><div><div class="relative"><p class="dr-px-16 dr-pb-14 p-s dr-pt-0 opacity-[0.56]">Tidak usah. Sentra Bot berjalan berdampingan dengan aplikasi yang sudah Anda pakai dan menyambung lewat integrasi. Yang berkurang hanya kerja manualnya, bukan aplikasi favorit Anda.</p></div></div></div></div></div><div class="accordion-module__tWMLDa__accordion"><div class="faq-module__O8tnPq__faq__item relative dr-mt-10 dr-rounded-10 dt:dr-rounded-8 overflow-hidden"><button type="button" aria-expanded="false" class="dr-py-14 dr-px-16 relative flex items-center justify-between w-full"><h4 class="dr-w-271 dt:w-full h6">Bagaimana dengan tumpukan pekerjaan yang sudah lama menunggu?</h4><svg viewBox="0 0 10 6" fill="none" xmlns="http://www.w3.org/2000/svg" class="dr-w-10 transition-transform duration-300"><path d="m1 .5.6.2 3.6 3.6L8.9.6c.8-.4 1.4.5.8 1.1-1.4 1.2-2.6 2.9-4 4Q5.3 6 5 6L.6 1.6C.3 1.3.4.6.9.6" fill="white"></path></svg></button><div class="accordion-module__tWMLDa__body" aria-hidden="true" style="height: 0px;"><div><div class="relative"><p class="dr-px-16 dr-pb-14 p-s dr-pt-0 opacity-[0.56]">Jujur saja: agen mulai bekerja dari hari Anda menyalakannya. Kemampuan untuk menarik dan membereskan tumpukan lama masih dalam rencana pengembangan, jadi belum tersedia sekarang.</p></div></div></div></div></div><div class="accordion-module__tWMLDa__accordion"><div class="faq-module__O8tnPq__faq__item relative dr-mt-10 dr-rounded-10 dt:dr-rounded-8 overflow-hidden"><button type="button" aria-expanded="false" class="dr-py-14 dr-px-16 relative flex items-center justify-between w-full"><h4 class="dr-w-271 dt:w-full h6">Sentra itu siapa?</h4><svg viewBox="0 0 10 6" fill="none" xmlns="http://www.w3.org/2000/svg" class="dr-w-10 transition-transform duration-300"><path d="m1 .5.6.2 3.6 3.6L8.9.6c.8-.4 1.4.5.8 1.1-1.4 1.2-2.6 2.9-4 4Q5.3 6 5 6L.6 1.6C.3 1.3.4.6.9.6" fill="white"></path></svg></button><div class="accordion-module__tWMLDa__body" aria-hidden="true" style="height: 0px;"><div><div class="relative"><p class="dr-px-16 dr-pb-14 p-s dr-pt-0 opacity-[0.56]">Sentra Artificial Intelligence, tim yang membangun Sentra Bot: platform multi-agen yang berjalan di perangkat Anda sendiri dan selalu meminta izin sebelum bertindak, dibuat untuk cara kerja orang Indonesia. Selengkapnya di <a href="https://sentrahai.com" class="underline">sentrahai.com</a>.</p></div></div></div></div></div></section>

diff --git a/projects/product/sentrabot/apps/site/src/hooks/useFaqAccordion.js b/projects/product/sentrabot/apps/site/src/hooks/useFaqAccordion.js
@@ -27,7 +27,9 @@ export function useFaqAccordion(rootRef) {
         el.style.height = "0px";
         el.setAttribute("aria-hidden", "true");
         el.parentElement?.removeAttribute("data-open");
-        const otherIcon = el.parentElement?.querySelector("button svg");
+        const otherButton = el.parentElement?.querySelector("button");
+        otherButton?.setAttribute("aria-expanded", "false");
+        const otherIcon = otherButton?.querySelector("svg");
         if (otherIcon) otherIcon.style.transform = "";
       });
 
@@ -35,11 +37,13 @@ export function useFaqAccordion(rootRef) {
         body.style.height = "0px";
         body.setAttribute("aria-hidden", "true");
         item.removeAttribute("data-open");
+        button.setAttribute("aria-expanded", "false");
         if (icon) icon.style.transform = "";
       } else {
         body.style.height = `${body.scrollHeight}px`;
         body.setAttribute("aria-hidden", "false");
         item.setAttribute("data-open", "");
+        button.setAttribute("aria-expanded", "true");
         if (icon) icon.style.transform = "rotate(180deg)";
       }
     };
